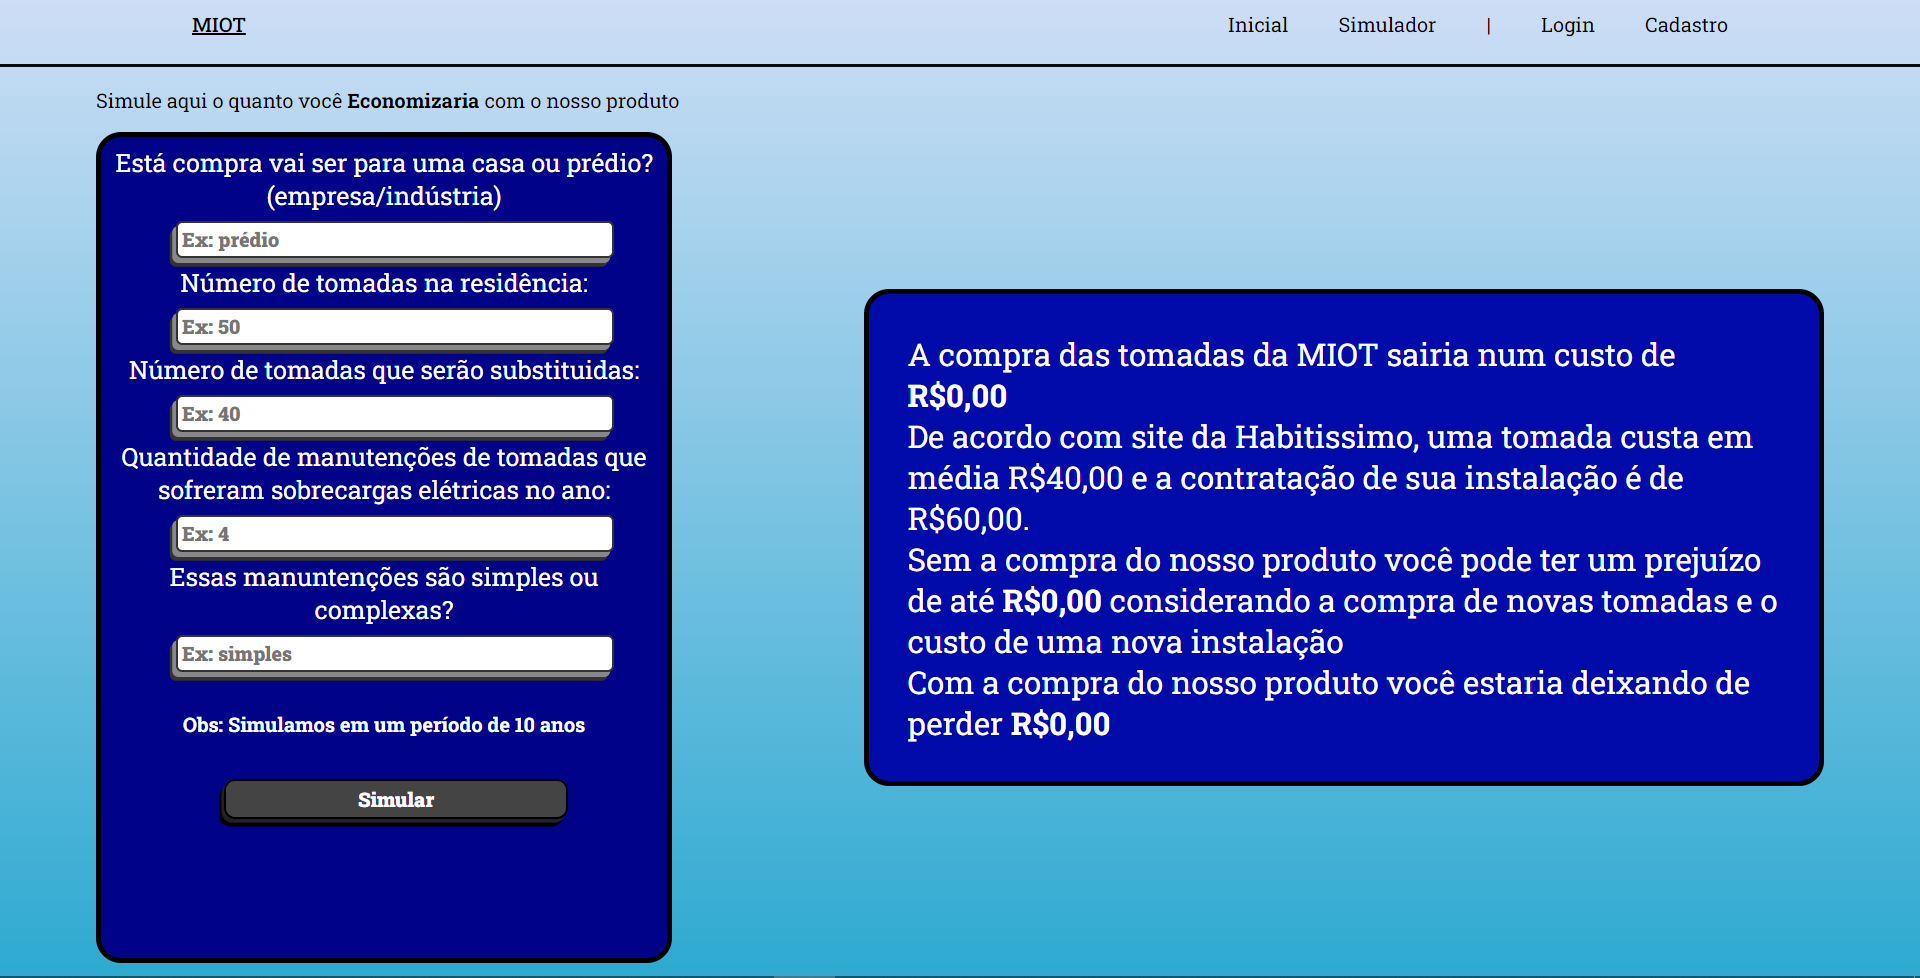
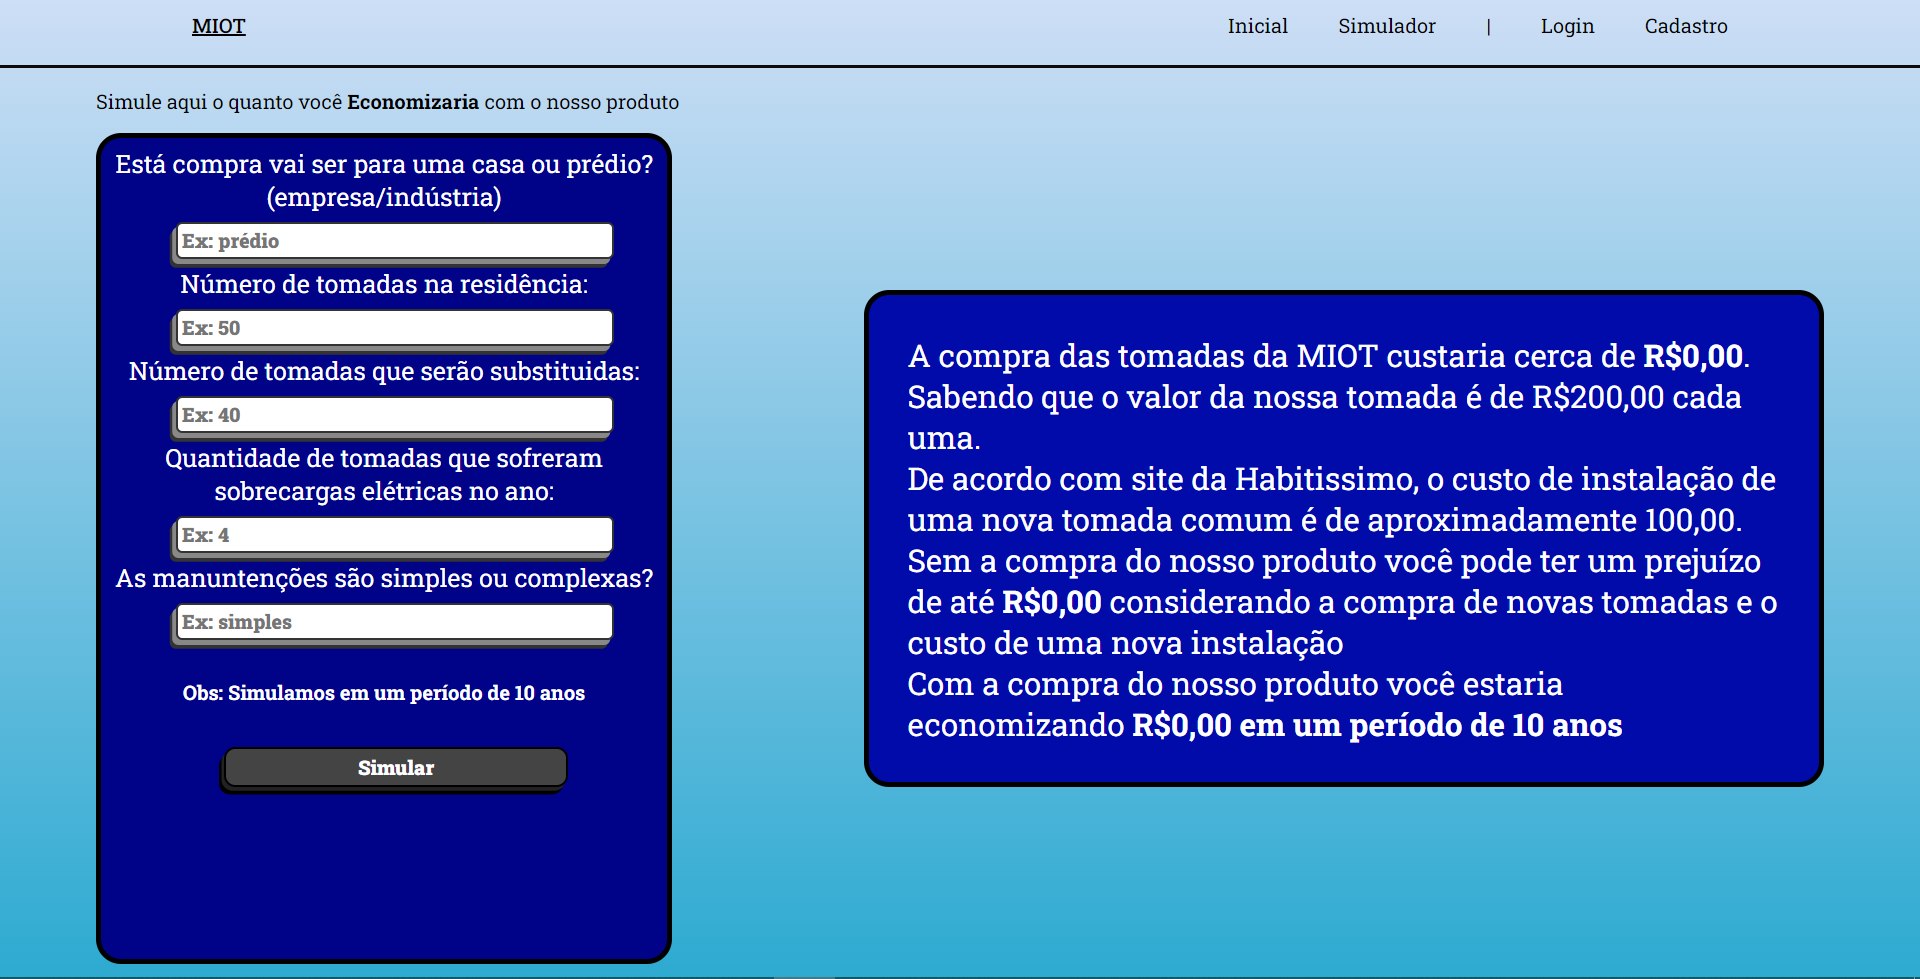
MIOT

diff --git a/CALCULADORA GRUPO 10/Final/index.html b/CALCULADORA GRUPO 10/Final/index.html
@@ -96,7 +96,7 @@
  o valor da nossa tomada é de R$200,00 cada uma.</p>
             <p>De acordo com site da Habitissimo, o custo de instalação de uma nova tomada comum é de aproximadamente 100,00.</p>
             <p>Sem a compra do nosso produto você pode ter um prejuízo de até <b>R$${custoTotalFiacao},00</b> considerando a compra de novas tomadas e o custo de uma nova instalação</p>
-            <p>Com a compra do nosso produto você estaria economizando <b>R$${economia},00 em um período de 10 anos</b></p>  
+            <p>Com a compra do nosso produto você estaria economizando <b>R$${economia},00 </b> em um período de 10 anos</p>  
             </div>
              `;
     }
